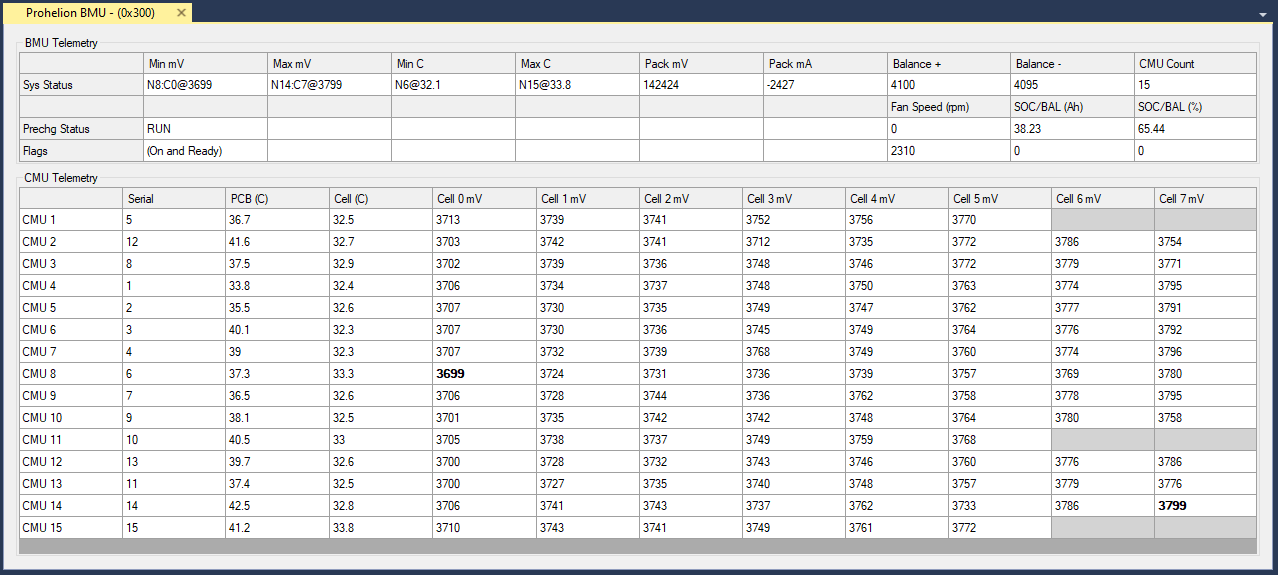
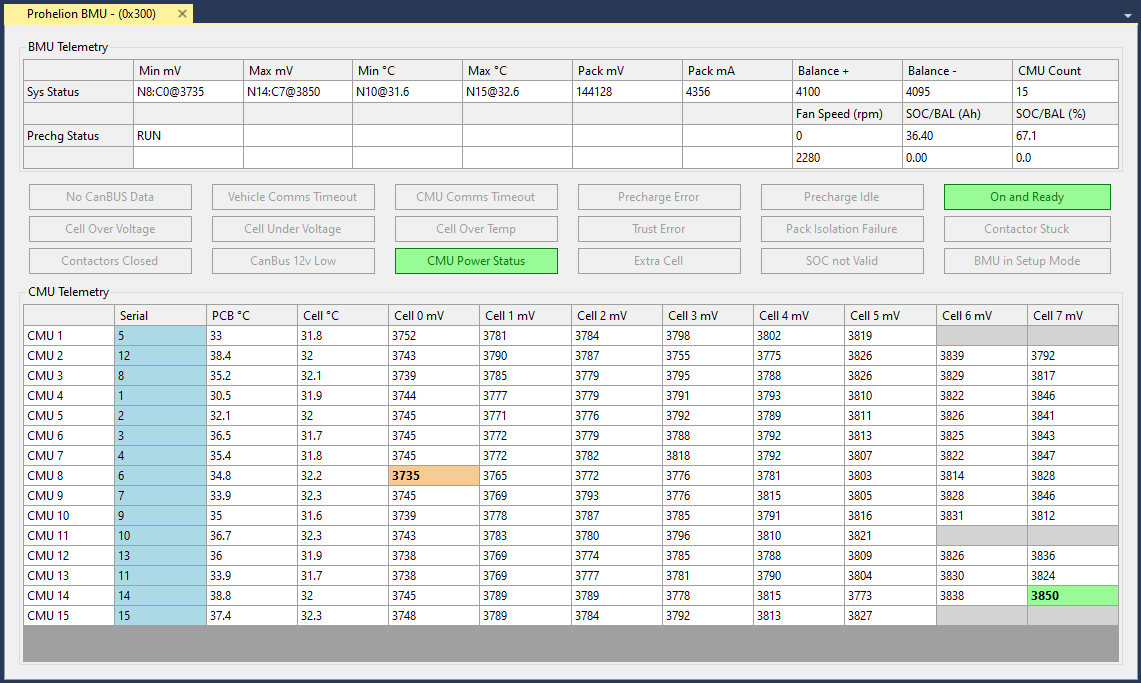
Updates to images and text to fix a couple of issues

diff --git a/dox-theme/_includes/hero.html b/dox-theme/_includes/hero.html
@@ -1,8 +1,8 @@
 {% if include.emphasize == true %}
-	{% assign title_classes = 'u-text-xxl u-font-normal u-font-bold' %}
+	{% assign title_classes = 'u-text-xxl u-font-normal u-font-bold u-text-white' %}
 	{% assign description_classes = 'u-h5' %}
 {% else %}
-	{% assign title_classes = 'u-text-lg u-text-xl@sm' %}
+	{% assign title_classes = 'u-text-lg u-text-xl@sm u-text-white' %}
 	{% assign description_classes = 'u-h6' %}
 {% endif %}
 

diff --git a/dox-theme/_sass/settings/_core.scss b/dox-theme/_sass/settings/_core.scss
@@ -89,7 +89,7 @@ $font-size-h5: 1.375rem !default;
 $font-size-h6: 1.25rem !default;
 
 $font-color-h1: $color-dark-blue !default;
-$font-color-h2: $color-white !default;
+$font-color-h2: $color-dark-blue !default;
 $font-color-h3: $color-dark-blue !default;
 $font-color-h4: $color-red !default;
 $font-color-h5: $color-dark-blue !default;

diff --git a/_documentation/Profinity/Prohelion_Cloud_Connect.md b/_documentation/Profinity/Prohelion_Cloud_Connect.md
@@ -16,11 +16,9 @@ When you add a Cloud Connect device to your profile Profinity will start automat
 
 Prohelion Cloud Connect is a great solution for allow teams to work remotely and jointly analyse and diagnose problems.  
 
-??? Image here
-
 A core concept of Prohelion Cloud Connect is the idea of the transmitting node and the receiving nodes.
 
-** Transmitting Node **
+### Transmitting Node
 
 When Prohelion Cloud Connect is added to a profile, the machine on which this first occurs is marked as the transmitting instance of Profinity. Any data transmitted in to this Prohelion Cloud Connect stream must be transmitted from this instance of Profinity.
 
@@ -28,7 +26,7 @@ Sharing the Cloud Connect URL not only shares the data it allow enables a copy o
 
 If a change is made to the [Profile](Profiles.html) on the transmitting node, for example a new device is configured or a change is made to one of hte configuration parameters, then that change is automatically sent to each of the receiving nodes of Profinity and within a few seconds you should see the profiles of the receiving nodes update as well.
 
-** Receiving Node **
+### Receiving Node
 
 A receiving node is one that has used a received URL to connect to the Prohelion Cloud Connect Steam.
 

diff --git a/_documentation/Profinity/Prohelion_Batteries.md b/_documentation/Profinity/Prohelion_Batteries.md
@@ -88,7 +88,9 @@ The data is highlighted in various ways to quickly understand the system status
 
 *         Cells currently balancing have a blue background
 
-*         The minimum and maximum cells have bold text
+*         The minimum and maximum cells have bold text and are colour coded (green shows highest voltage, brown lowest)
+
+*         Cell in yellow have trust errors
 
 *         Cells not present (where the CMU has been programmed to monitor less than 8 cells) have no text, and a mid-gray background
 
